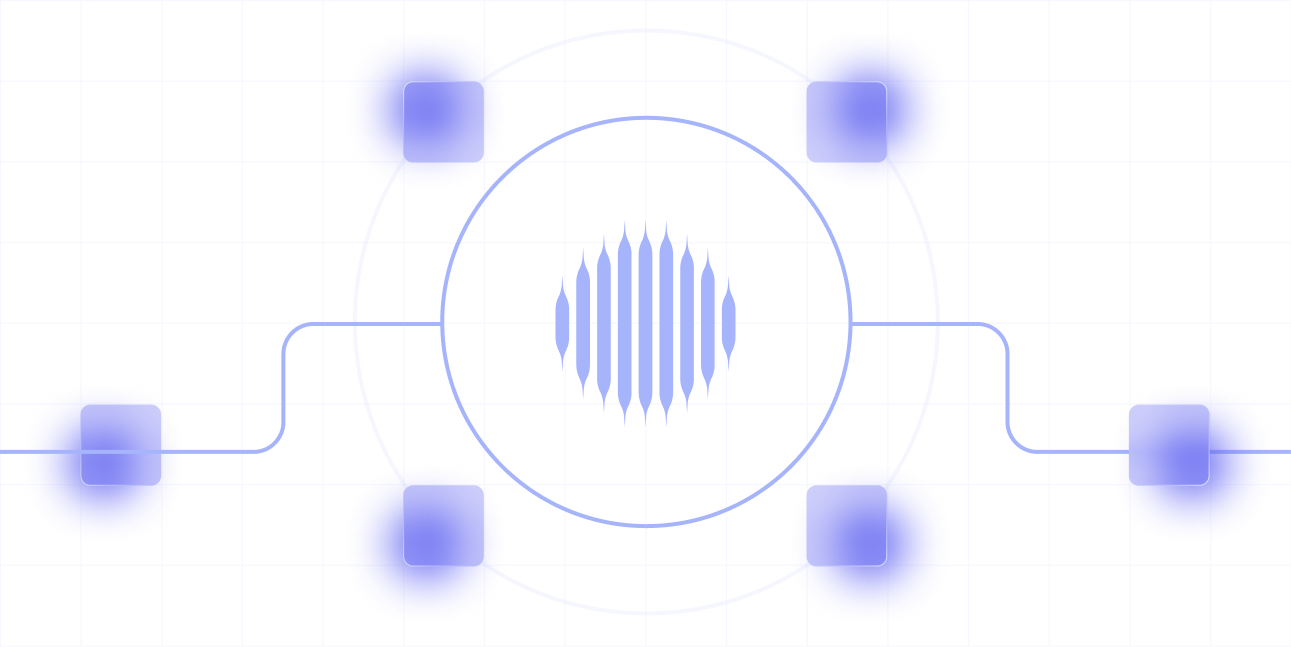
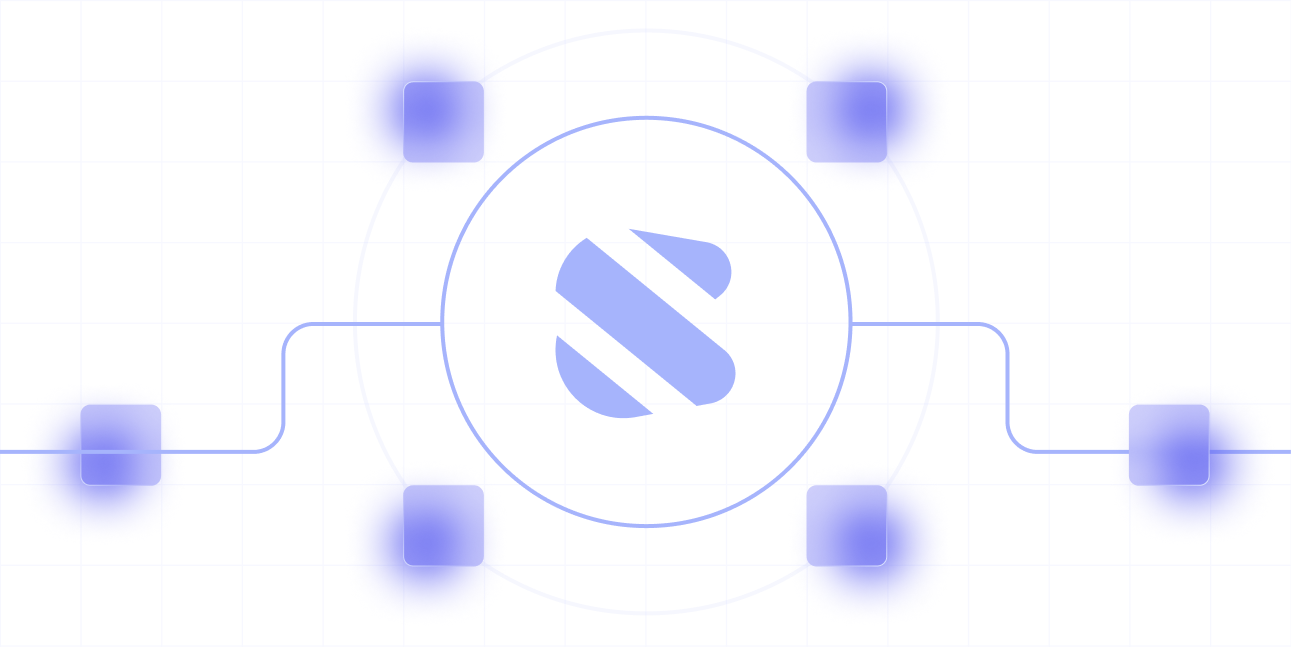
Rebrand

Changed region(s): [[0.4028, 0.34, 0.5887, 0.6491]]

diff --git a/src/components/sections/about.tsx b/src/components/sections/about.tsx
@@ -24,7 +24,7 @@ const sections = [
     tag: 'Solution',
     title: 'Solution',
     content:
-      'Chat with SCIA—an innovative AI-powered trading companion that combines advanced machine learning with emotional intelligence. Our system processes vast market data while understanding and counteracting common behavioral biases in trading.',
+      'Chat with SCIA AI—an innovative AI-powered trading companion that combines advanced machine learning with emotional intelligence. Our system processes vast market data while understanding and counteracting common behavioral biases in trading.',
     image: '/illustrations/solution.png',
   },
   {
@@ -38,7 +38,7 @@ const sections = [
     tag: 'Impact',
     title: 'Impact',
     content:
-      'Our mission is to make efficient trading accessible to traders of all levels through AI-powered solution stack. With SCIA, we are building the future of trading where technology and human insight combine to create optimal trading outcomes.',
+      'Our mission is to make efficient trading accessible to traders of all levels through AI-powered solution stack. With SCIA AI, we are building the future of trading where technology and human insight combine to create optimal trading outcomes.',
     image: '/illustrations/future.png',
   },
 ];

diff --git a/src/components/sections/token.tsx b/src/components/sections/token.tsx
@@ -33,7 +33,7 @@ const TokenSection = () => {
     {
       title: 'Governance',
       description:
-        'Stake $SCIA to make proposals and vote on important decisions related to the development, expansion and growth of SCIA',
+        'Stake $SCIA to make proposals and vote on important decisions related to the development, expansion and growth of SCIA AI.',
       icon: <PiArchiveDuotone className='w-6 h-6 text-accent' />,
     },
     {
@@ -54,7 +54,7 @@ const TokenSection = () => {
             $SCIA Token
           </h2>
           <p className='mt-4 text-lg/8 text-foreground/60'>
-            The Scia ecosystem is powered by the $SCIA token, a decentralized
+            The SCIA AI ecosystem is powered by the $SCIA token, a decentralized
             and community-driven token that serves as the backbone of our
             infrastructure, community, and governance.
           </p>
@@ -104,7 +104,7 @@ const TokenSection = () => {
 
             {/* SCIA Coin */}
             <motion.div
-              className='relative mt-16 w-[30rem] h-[30rem] z-40'
+              className='relative mt-12 w-[25rem] h-[25rem] z-40'
               animate={{ scale: [1, 1.1, 1] }}
               transition={{ duration: 4, repeat: Infinity, ease: 'easeInOut' }}
             >

diff --git a/src/components/features/footer.tsx b/src/components/features/footer.tsx
@@ -19,7 +19,7 @@ const Footer = () => {
             </div>
             <p className='mt-4 text-foreground/50 text-sm max-w-[300px]'>
               Stay on top of the market, make informed trading decisions, and
-              take your trading to the next level with SCIA.
+              take your trading to the next level with SCIA AI.
             </p>
           </div>
 
@@ -72,7 +72,7 @@ const Footer = () => {
         {/* Copyright */}
         <div className='mt-12 pt-8 border-t border-background/10'>
           <p className='text-center text-sm text-foreground/50'>
-            {currentYear} SCIA. All rights reserved.
+            {currentYear} SCIA AI. All rights reserved.
           </p>
         </div>
       </div>

diff --git a/src/components/sections/features.tsx b/src/components/sections/features.tsx
@@ -137,7 +137,7 @@ const features = [
   {
     title: 'Interoperable Communication',
     description:
-      'Leverage SCIA’s API to access a rich stream of information layers that seamlessly integrate into other data-dependent ecosystems.',
+      'Leverage SCIA AI’s API to access a rich stream of information layers that seamlessly integrate into other data-dependent ecosystems.',
     imageURL: `/illustrations/security.png`,
     className: 'max-md:rounded-b-[2rem] md:rounded-br-[2rem]',
     colSpan: 'sm:col-span-1 lg:col-span-2',

diff --git a/src/components/custom/hero-badge.tsx b/src/components/custom/hero-badge.tsx
@@ -9,7 +9,7 @@ export function HeroBadge({ className }: HeroBadgeProps) {
     >
       <span className='flex h-2 w-2 rounded-full bg-sciaprimary animate-pulse-scia' />
       <span className='text-sm text-foreground/60 tracking-tight'>
-        Introducing Scia - Phase 1 Development
+        Introducing SCIA AI - Phase 1 Development
       </span>
     </div>
   );

diff --git a/src/components/ui/tag.tsx b/src/components/ui/tag.tsx
@@ -23,7 +23,7 @@ interface TagProps extends VariantProps<typeof tagVariants> {
 export function Tag({ children, size, className = "" }: TagProps) {
   return (
     <div className={tagVariants({ size, className })}>
-      <span className="text-accent">{children}</span>
+      <span className="text-foreground">{children}</span>
     </div>
   );
 }

diff --git a/src/components/ui/logo.tsx b/src/components/ui/logo.tsx
@@ -7,7 +7,7 @@ export function Logo() {
       alt='Scia Logo'
       width={300}
       height={60}
-      className='h-8 w-auto'
+      className='h-6 w-auto'
     />
   );
 }
